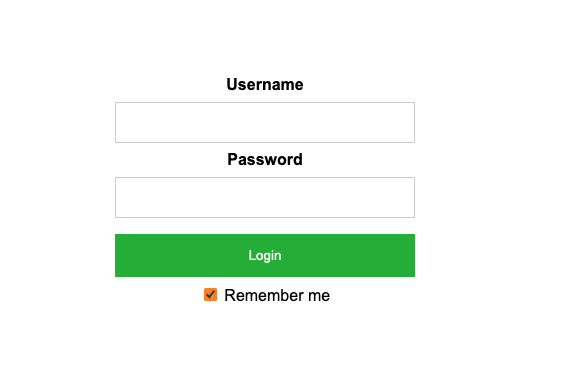
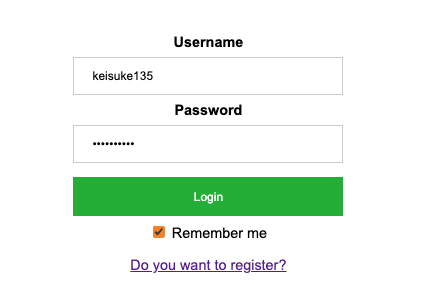
Added some documents

diff --git a/README.md b/README.md
@@ -1,10 +1,41 @@
 # fakebook (Mini facebook clone app)
-<p align="center">
-    <img src="Docs/pics/login.png">
-    <img src="Docs/pics/home.png">
-</p>
+As a Node.js Tutorial, I created facebook clone appication.  
 
 ## Built with
 - Node.js
 - Express
 - MySQL
+
+## Main Features  
+- Login / SignUp 
+- Showing Posts
+- Posting texts
+- Showing Follower/Following
+- Searching User
+- Showing User's all the posts
+
+## Screen Shots
+### Login
+![login](Docs/pics/login.png)  
+***
+### Sign Up
+![signup](Docs/pics/signup.png)  
+***
+### Home
+![home](Docs/pics/home.png)  
+***
+### Posting
+![post](Docs/pics/posting.png)  
+***
+### Follower/Following
+![friend](Docs/pics/friend.png)  
+***
+### My Page
+![mypage](Docs/pics/mypage.png)  
+
+
+## Missing Features  
+- [x] CSRF Module
+- [ ] SQL Injection
+- [ ] Brute Force Prevention
+- [ ] etc .. 
